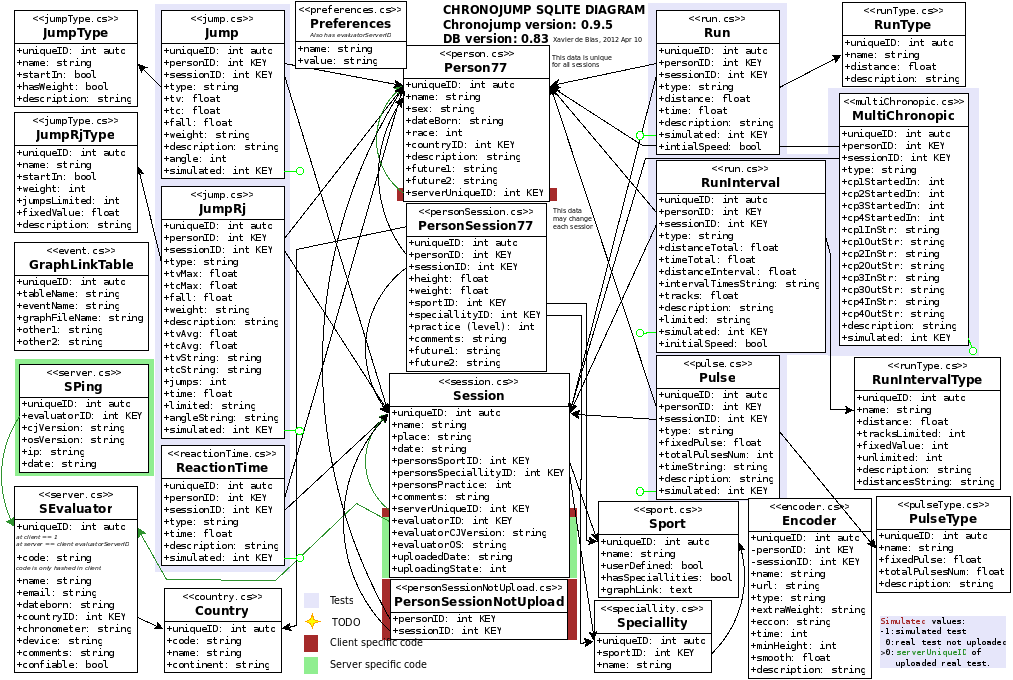
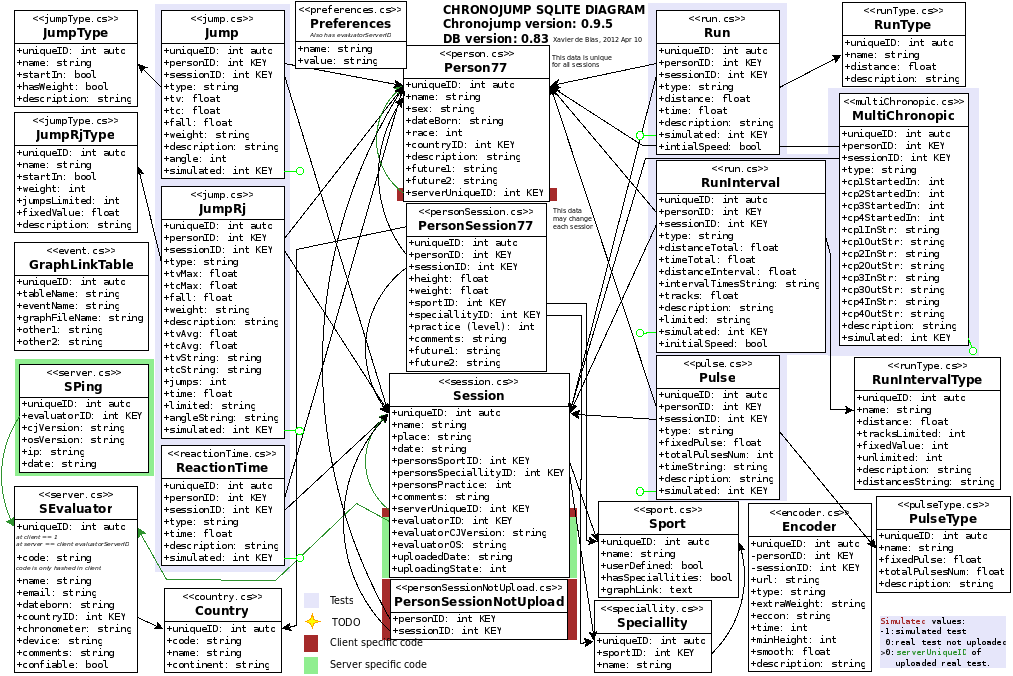
Removed name from encoder sql

diff --git a/src/sqlite/encoder.cs b/src/sqlite/encoder.cs
@@ -43,7 +43,6 @@ class SqliteEncoder : Sqlite
 			"uniqueID INTEGER PRIMARY KEY, " +
 			"personID INT, " +
 			"sessionID INT, " +
-			"name TEXT, " +
 			"url TEXT, " +
 			"type TEXT, " +		//"bar" or "jump"
 			"extraWeight TEXT, " +	//string because can contain "33%" or "50Kg"
@@ -60,7 +59,7 @@ class SqliteEncoder : Sqlite
 	 * Encoder class methods
 	 */
 	
-	public static int Insert(bool dbconOpened, string tableName, string uniqueID, int personID, int sessionID, string name, string url, string type, string extraWeight, string eccon, int time, int minHeight, float smooth, string description)
+	public static int Insert(bool dbconOpened, string tableName, string uniqueID, int personID, int sessionID, string url, string type, string extraWeight, string eccon, int time, int minHeight, float smooth, string description)
 	{
 		if(! dbconOpened)
 			dbcon.Open();
@@ -69,9 +68,9 @@ class SqliteEncoder : Sqlite
 			uniqueID = "NULL";
 
 		dbcmd.CommandText = "INSERT INTO " + tableName +  
-				" (uniqueID, personID, sessionID, name, url, type, extraWeight, econ, time, minHeight, smooth, description)" +
+				" (uniqueID, personID, sessionID, url, type, extraWeight, econ, time, minHeight, smooth, description)" +
 				" VALUES (" + uniqueID + ", "
-				+ personID + ", " + sessionID + ", '" + name + "', '" + url + "', '" + type + "', '" 
+				+ personID + ", " + sessionID + ", '" + url + "', '" + type + "', '" 
 				+ extraWeight + "', '" + eccon + "', " + time + ", " + minHeight + ", " 
 				+ Util.ConvertToPoint(smooth) + ", '" + description + "')" ;
 		Log.WriteLine(dbcmd.CommandText.ToString());
